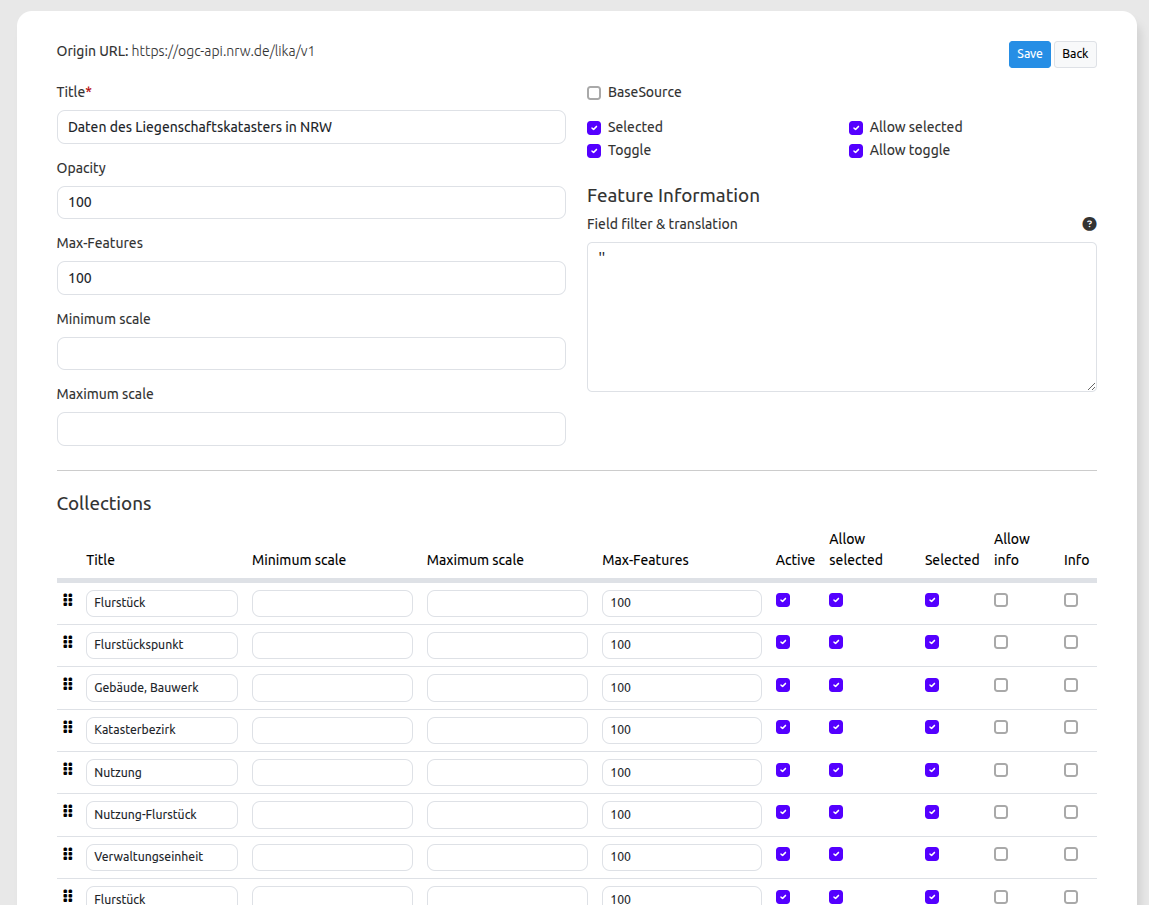
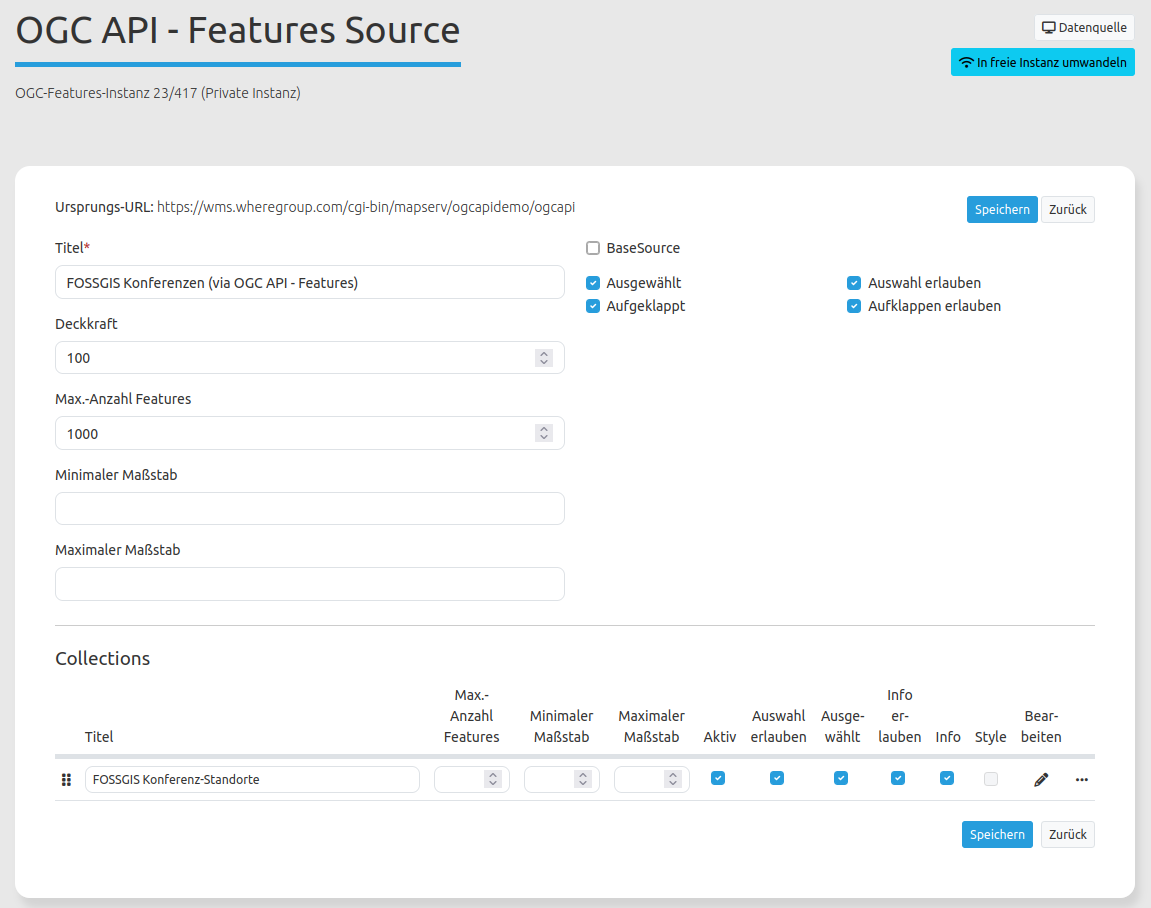
OGC APi - Features Instanz Konfiguration

diff --git a/de/backend/applications/layerset.rst b/de/backend/applications/layerset.rst
@@ -227,9 +227,7 @@ Vendor Specific Parameter
 
 In einer Dienstinstanz können Vendor Specific Parameter angegeben werden, die an den WMS Request angefügt werden.
 In Mapbender können die Vendor Specific Parameter genutzt werden, um Benutzer und Gruppeninformation des angemeldeten Benutzers an die WMS-Anfrage zu hängen. Es können auch feste Werte übermittelt werden.
-Das folgende Beispiel zeigt die Definition eines Parameters „group“, der als Inhalt die Gruppe des gerade in Mapbender angemeldeten Nutzers weitergibt.
 
-.. image:: ../../../figures/de/layerset/mapbender_vendor_specific_parameter.png
 
 * Name: Parameter Name im WMS Request.
 * default: Standardwert
@@ -238,10 +236,23 @@ Das folgende Beispiel zeigt die Definition eines Parameters „group“, der als
 
 Momentan eignet sich das Element, um den Dienst nur an bestimmte Benutzer und Gruppen weiterzugeben. Dies geschieht z.B. für Benutzer über die ``$id$`` und für Gruppen über den Parameter ``$groups$``.
 
+Liste der möglichen Variablen:
+
+* **User**: $email$, $groups$, $id$, $username$
+* **Groups**: $id$, $title$, $description$
+
+Das folgende Beispiel zeigt die Definition eines Parameters ``group``, der als Inhalt die Gruppe des gerade in Mapbender angemeldeten Nutzers weitergibt.
+
+.. image:: ../figures/de/layerset/mapbender_vendor_specific_parameter.png
+   :width: 75%
+
+Das folgende Beispiel zeigt die Definition eines Parameters „group“, der als Inhalt die Gruppe des gerade in Mapbender angemeldeten Nutzers weitergibt.
+
+.. image:: ../../../figures/de/layerset/mapbender_vendor_specific_parameter.png
+
 
 Weitere Informationen
 ---------------------
-
 
 * Information zur Benutzung von Layersets finden Sie auch im Schnellstart-Kapitel :ref:`de/quickstart:4. Datenquellen (Sources) verwenden`.
 
@@ -355,17 +366,7 @@ Die OGC API - Features Dienst-Instanz-Einstellungen bieten folgende Konfiguratio
 * **Aufklappen erlauben**: Checkbox, ob der Benutzer die Instanz im Ebenenbaum aufklappen darf.
 * **Aufklappen**: Gibt an, ob der Ordner beim Start der Anwendung aufgeklappt sein soll.
 
-* **Feld-Information & Übersetzung**: YAML-Array zur Definition von Feldern und Übersetzungen für die Informationsausgabe.
 
-Beispiel:
-
-  .. code-block:: yaml
-
-     - name: Name
-     - objid: ID
-     - flaeche: 'Fläche'
-     - land: Bundesland
- 
 **Collections**
 
 * **Titel**: Titel für die Collection, der im Ebenenbaum angezeigt werden soll.
@@ -377,11 +378,71 @@ Beispiel:
 * **Auswählen an**: Die Collection ist bei Anwendungsstart im Ebenenbaum aktiv.
 * **Info erlauben**: Die Infoabfrage wird für diese Collection zugelassen.
 * **Info an**: Die Infoabfrage wird beim Start aktiviert.
-* **...** (Drei-Punkte-Menü): Öffnet einen Dialog mit weiteren Informationen:
-* **Collection Name**: Layername der Service Information
-* **Style**: Sie können einen Standard-Stil und weitere Stile auswählen.
+* **Bearbeiten** (|mapbender-button-edit| Button): Öffnet den Konfigurationsdialog für Stile, Hoover-Tooltip und FeatureInfo-Ausgabe
+* **...** (Drei-Punkte-Menü): Öffnet einen Dialog mit weiteren Informationen (Ids und Collection-Name)
+
+
+**Eigenschaften für Collections bearbeiten**
+
+Über den |mapbender-button-edit| Button können die Eigenschaften für einzelne Collections bearbeitet werden. 
+
+Dabei kann Folgendes angepasst werden:
+
+* Stil 
+* Tooltip, der beim Überfahren der Features angezeigt werden soll
+* FeatureInfo-Ausgabe, die beim Klicken auf ein Feature angezeigt werden soll
+
+**Stil** 
+
+Es kann aus den bestehenden Stilen ausgewählt werden. Dabei kann ein primärer Stil für die Darstellung gewählt werden. Außerdem können sekundäre Stile definiert werden. 
+
+.. image:: ../../../figures/de/layerset/layerset_ogc_api_features_collection_style.png
+  :scale: 80
+
+**Hoover-Tooltip - Anzeige beim Überfahren von Features** 
+
+Es gibt 3 Möglichkeiten , wie der Hoover-Tooltip für die Features einer Collection konfiguriert werden kann:
+
+* Wählen Sie Attribute für den Tooltip aus und ändern Sie bei Bedarf die Reihenfolge.
+* Auflistung der Attribute und Anpassung der Titel
+* Fügen Sie eine HTML-Vorlage für den Tooltip hinzu.
+
+Außerdem kann eine Füllfarbe, Strichbreite und Strichfarbe für die Darstellung des Hoover-Tooltips konfiguriert werden.
+
+.. image:: ../../../figures/de/layerset/layerset_ogc_api_features_collection_tooltip.png
+  :scale: 80
+
+Beispiel Auflistung
+
+  .. code-block:: yaml
+
+     - name: Name
+     - flaeche: 'Fläche'
+     - land: Bundesland
+
+Beispiel HTML-Vorlage
+
+  .. code-block:: yaml
+
+     <b>${name}</b><br>${location}
+
+**FeatureInfo** 
+
+Standardmäßig werden alle Attribute beim FeatureInfo ausgegeben. 
+
+Es gibt 3 Möglichkeiten, wie die FeatureInfo-Ausgabe für die Features einer Collection konfiguriert werden kann:
+
+* Wählen Sie Attribute für die FeatureInfo aus und ändern Sie bei Bedarf die Reihenfolge.
+* Auflistung der Attribute und Anpassung der Titel
+* Fügen Sie eine HTML-Vorlage für die FeatureInfo hinzu.
+
+
+.. image:: ../../../figures/de/layerset/layerset_ogc_api_features_collection_featureinfo.png
+  :scale: 80
+
+
+Der Screenshot zeigt eine Mapbender-Anwendung mit OGC API - Features Dienst.
 
 .. image:: ../../../figures/de/layerset/layerset_ogc_api_features_visualisation.png
   :width: 100%
 
-Der Screenshot zeigt eine Mapbender-Anwendung mit OGC API - Features Dienst.

diff --git a/en/backend/applications/layerset.rst b/en/backend/applications/layerset.rst
@@ -223,9 +223,8 @@ There are also some WMS services that only support a maximum image size that can
 Vendor Specific Parameter
 -------------------------
 
-In a service instance, vendor specific parameters are appended to the WMS request. In Mapbender, the vendor specific parameters can be used to append user and group information of the logged-in user to the WMS request. Fixed values can also be transmitted. The following example shows the definition of a parameter "group", which passes on the group of the user currently logged into Mapbender.
+In a service instance, vendor specific parameters are appended to the WMS request. In Mapbender, the vendor specific parameters can be used to append user and group information of the logged-in user to the WMS request. Fixed values can also be transmitted. 
 
-.. image:: ../../../figures/layerset/mapbender_vendor_specific_parameter.png
 
 * Name: Parameter name in WMS request.
 * Default: Default value.
@@ -233,6 +232,15 @@ In a service instance, vendor specific parameters are appended to the WMS reques
 * Hidden: If this value is set, the requests are sent on the server so that the parameters are not directly visible.
 
 The item is useful for passing the service on only to specific users and groups. This happens e.g. for users via the ``$id$`` and for groups via the parameter ``$groups$``.
+
+List of the possible parameters:
+
+* **User**: $email$, $groups$, $id$, $username$
+* **Groups**: $id$, $title$, $description$
+
+The following example shows the definition of a parameter "group", which passes on the group of the user currently logged into Mapbender.
+
+.. image:: ../../../figures/layerset/mapbender_vendor_specific_parameter.png
 
 
 Further information
@@ -370,11 +378,72 @@ Example:
 * **Select on**: Selectable in geodata explorer.
 * **Info allow**: Collection info is active when the application starts.
 * **Info**: Collection provides feature info requests, info default activates the feature info functionality.
-* **...** -> Opens a dialog with more information:
+* **Edit**: |mapbender-button-edit| Button to open the configuration dialog for styles, hoover tooltip and featureInfo
+* **...** -> Opens a dialog with more information (IDs and collection name)
 * **Collection name**: Collection name of the service information
-* **Style**: You can choose a default style and offer other styles.
+
+**Editing properties for collections**
+
+The properties for individual collections can be edited using the |mapbender-button-edit|  button. 
+
+The following can be adjusted:
+
+* Style
+* Tooltip, that shall be displayed when hovering over the features
+* FeatureInfo output, that shall be displayed when clicking on a feature
+
+**Style**
+
+It can be selected from the existing styles. A primary style can be chosen for the representation. Additionally, secondary styles can be defined.
+
+.. image:: ../../../figures/layerset/layerset_ogc_api_features_collection_style.png
+  :scale: 80
+
+**Hoover-Tooltip** 
+
+Default: no attributes are displayed in the Hoover-Tooltip.
+
+There are three options to configure the hoover tooltip for the features of a collection:
+
+* Choose attributes for the tooltip and change the ordering if needed.
+* List attributes
+* Add a HTML-template for the tooltip.
+
+In addition you can define a fill color, stroke width and stroke color for the representation of the hoover tooltip.
+
+.. image:: ../../../figures/layerset/layerset_ogc_api_features_collection_tooltip.png
+  :scale: 80
+
+Example list
+
+  .. code-block:: yaml
+
+     - name: Name
+     - flaeche: 'Area'
+     - land: Province
+
+Example HTML-template
+
+  .. code-block:: yaml
+
+     <b>${name}</b><br>${location}
+
+**FeatureInfo** 
+
+Default: all attributes are displayed in the FeatureInfo.
+
+There are three options to configure the FeatureInfo output for the features of a collection:
+
+* Choose attributes for the FeatureInfo and change the ordering if needed.
+* List attributes
+* Add a HTML-template for the FeatureInfo.
+
+
+.. image:: ../../../figures/layerset/layerset_ogc_api_features_collection_featureinfo.png
+  :scale: 80
+
+
+The screenshot shows a Mapbender application with an OGC API - Features Service.
 
 .. image:: ../../../figures/layerset/layerset_ogc_api_features_visualisation.png
   :width: 100%
-
-The screenshot shows a Mapbender application with an OGC API - Features Service.

diff --git a/en/backend/sources.rst b/en/backend/sources.rst
@@ -253,7 +253,7 @@ Loading an OGC API - Features Service
 .. image:: ../../figures/mapbender_add_ogc_api_features_source.png
   :width: 100%
 
-* **URL to an OGC API - Features Service**: Service URL (for example `bm_web_col https://sgx.geodatenzentrum.de/gdz_basemapde_vektor/styles/bm_web_col.json <https://sgx.geodatenzentrum.de/gdz_basemapde_vektor/styles/bm_web_col.json>`_ oder `Daten des Liegenschaftskatasters in NRW https://ogc-api.nrw.de/lika/v1 <https://ogc-api.nrw.de/lika/v1>`_ )
+* **URL to an OGC API - Features Service**: Service URL (for example `FOSSGIS Conferences Service https://wms.wheregroup.com/cgi-bin/mapserv/ogcapidemo/ogcapi <https://wms.wheregroup.com/cgi-bin/mapserv/ogcapidemo/ogcapi>`_, `pygeoapi Demo https://demo.pygeoapi.io/stable <https://demo.pygeoapi.io/stable>`_ or `Daten des Liegenschaftskatasters in NRW https://ogc-api.nrw.de/lika/v1 <https://ogc-api.nrw.de/lika/v1>`_ )
 
 YAML
 ++++  
@@ -270,13 +270,7 @@ YAML
 * **featureLimit**: maximum number of features requested from the service (default: 1000)
 * **minScale**: minimum scale (1:x) where the source is displayed (default: unset)
 * **maxScale**: maximum scale (1:x) where the source is displayed (default: unset)
-* **featureInfoPropertyMap**: If not empty, only the specified properties will be displayed in the feature info. Specify as YAML array. The key is the name of the field, the optional value is the translation. Example:
 
-  .. code-block:: yaml
-
-     class
-     name
-     layer: Layer-Name
 
 Collections
 
@@ -289,4 +283,5 @@ Collections
 * **allowToggle**: can the user collapse/expand the layer? (default: true)
 * **allowInfo**: does the collection provide information (default: false)
 * **info**: initial info state of the source (default: false)
+* **edit**: Button to open the configuration dialog for styles, hoover tooltip and featureInfo
   

diff --git a/de/backend/sources.rst b/de/backend/sources.rst
@@ -249,7 +249,7 @@ Laden einer OGC API - Features Quelle
 .. image:: ../../figures/de/mapbender_add_ogc_api_features_source.png
   :width: 100%
 
-* **URL zum OGC API - Features Dienst**: URL zum Dienst (z. B. `pygeoapi Demo https://demo.pygeoapi.io/stable <https://demo.pygeoapi.io/stable>`_ or `Daten des Liegenschaftskatasters in NRW https://ogc-api.nrw.de/lika/v1 <https://ogc-api.nrw.de/lika/v1>`_ )
+* **URL zum OGC API - Features Dienst**: URL zum Dienst (z. B. `FOSSGIS Conferences Service https://wms.wheregroup.com/cgi-bin/mapserv/ogcapidemo/ogcapi <https://wms.wheregroup.com/cgi-bin/mapserv/ogcapidemo/ogcapi>`_,  `pygeoapi Demo https://demo.pygeoapi.io/stable <https://demo.pygeoapi.io/stable>`_ oder `Daten des Liegenschaftskatasters in NRW https://ogc-api.nrw.de/lika/v1 <https://ogc-api.nrw.de/lika/v1>`_ )
 
 YAML
 ++++  
@@ -266,13 +266,6 @@ YAML
 * **featureLimit**: Maximale Anzahl der angeforderten Features (Standard 1000)
 * **minScale**: Mindestmaßstab (1:x), bei dem die Quelle angezeigt wird (Standard: nicht gesetzt)
 * **maxScale**: Höchstmaßstab (1:x), bei dem die Quelle angezeigt wird (Standard: nicht gesetzt)
-* **featureInfoPropertyMap**: Wenn nicht leer, werden nur die angegebenen Eigenschaften in der FeatureInfo angezeigt. Als YAML-Arra y angeben. Der Schlüssel ist der Name des Feldes, der optionale Wert ist die Übersetzung. Beispiel:
-
-  .. code-block:: yaml
-
-     class
-     name
-     layer: Layer-Name
 
 Collections
 
@@ -285,3 +278,5 @@ Collections
 * **allowToggle**: Kann der Benutzer das Thema ein-/ausschalten? (Standard: true)
 * **allowInfo**: liefert die Collection Informationen (default: false)
 * **info**: initialer Status für die Informationsabfrage (default: false)
+* **edit**: Button zum Öffnen des Konfigurationsdialogs für Stile, Hoover-Tooltip und FeatureInfo-Ausgabe
+  
